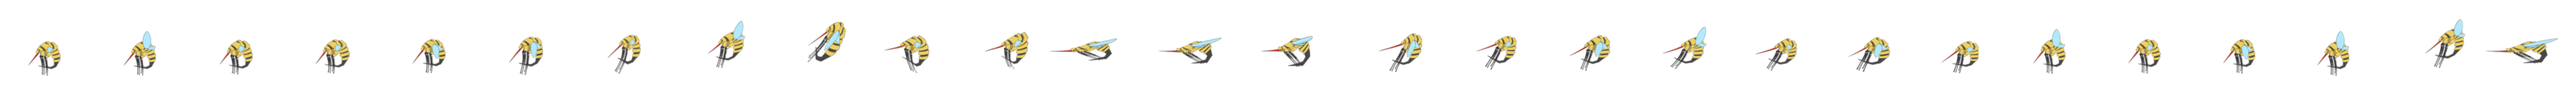
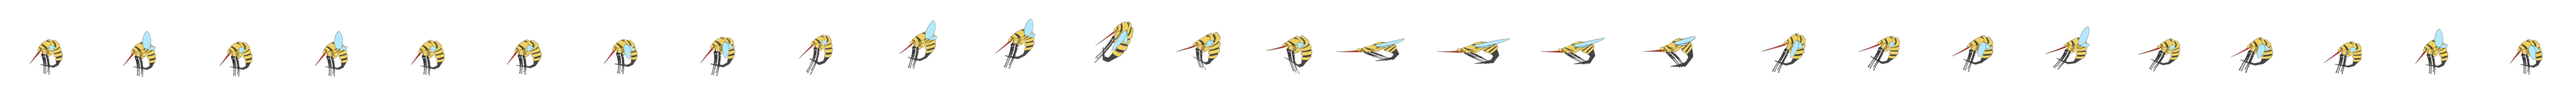
wasp AI & animations

Changed region(s): [[0.0, 0.25, 1.0, 0.75]]

diff --git a/src/Gameplay/Entities/Enemies/Wasp.cpp b/src/Gameplay/Entities/Enemies/Wasp.cpp
@@ -50,7 +50,7 @@ bool Wasp::Start() {
 
 	position.x = parameters.attribute("x").as_int();
 	position.y = parameters.attribute("y").as_int();
-	texturePath = parameters.attribute("texturepath").as_string(); 
+	texturePath = parameters.attribute("texturepath").as_string();
 	newPosition = spawnPosition = position;
 
 	timer = Timer();
@@ -89,41 +89,44 @@ bool Wasp::Start() {
 	waspDeath = *app->animationManager->GetAnimByName("Avispa_Muerte");
 	waspDeath.speed = 2.0f;
 
-
 	return true;
 }
 
 bool Wasp::Update(float dt)
 {
-	if (movementFSM->GetCurrentState().name != "die") {
-		movementFSM->Update(dt);
-		pbody->body->SetTransform(pbody->body->GetPosition(), 0);
+	movementFSM->Update(dt);
+	pbody->body->SetTransform(pbody->body->GetPosition(), 0);
 
-		// Calculate the angle between the enemy and the player
-		float angleToPlayer = atan2(player->position.y - position.y, player->position.x - position.x);
+	//Update player position in pixels
+	position.x = METERS_TO_PIXELS(pbody->body->GetTransform().p.x) - 16;
+	position.y = METERS_TO_PIXELS(pbody->body->GetTransform().p.y) - 16;
 
-		// Set the rotation of the enemy's body to face the player
-		pbody->body->SetTransform(pbody->body->GetPosition(), angleToPlayer);
+	//app->render->DrawRectangle({ position.x - 1, position.y + 8, 36, 18 }, 255, 0, 0);
 
-		//Update player position in pixels
-		position.x = METERS_TO_PIXELS(pbody->body->GetTransform().p.x) - 16;
-		position.y = METERS_TO_PIXELS(pbody->body->GetTransform().p.y) - 16;
+	app->render->DrawLine(METERS_TO_PIXELS(pbody->body->GetPosition().x), METERS_TO_PIXELS(pbody->body->GetPosition().y), METERS_TO_PIXELS(pbody->body->GetPosition().x) + pbody->body->GetLinearVelocity().x * 10, METERS_TO_PIXELS(pbody->body->GetPosition().y) + +pbody->body->GetLinearVelocity().y * 10, 255, 255, 0);
 
-		//app->render->DrawRectangle({ position.x - 1, position.y + 8, 36, 18 }, 255, 0, 0);
-
-		app->render->DrawLine(METERS_TO_PIXELS(pbody->body->GetPosition().x), METERS_TO_PIXELS(pbody->body->GetPosition().y), METERS_TO_PIXELS(pbody->body->GetPosition().x) + pbody->body->GetLinearVelocity().x * 10, METERS_TO_PIXELS(pbody->body->GetPosition().y) + +pbody->body->GetLinearVelocity().y * 10, 255, 255, 0);
-
-		if (debug) {
-			if (app->input->GetKey(SDL_SCANCODE_F4) == KEY_DOWN) {
-				freeCam = !freeCam;
-			}
+	if (debug) {
+		if (app->input->GetKey(SDL_SCANCODE_F4) == KEY_DOWN) {
+			freeCam = !freeCam;
 		}
-
-		/* 	app->render->DrawTexture(currentAnimation->texture, position.x - 9, position.y - 9, &currentAnimation->GetCurrentFrame(), 1.0f, pbody->body->GetAngle()*RADTODEG, flip);
-
-			currentAnimation->Update(dt); */
-
 	}
+
+	/* 	app->render->DrawTexture(currentAnimation->texture, position.x - 9, position.y - 9, &currentAnimation->GetCurrentFrame(), 1.0f, pbody->body->GetAngle()*RADTODEG, flip);
+
+		currentAnimation->Update(dt); */
+
+	// Calculate the angle between the enemy and the player
+	
+	float angleToPlayer = atan2(player->position.y - position.y, player->position.x - position.x);
+
+	// Determine if the player is to the left or right of the enemy
+	if (player->position.x < position.x) {
+		flip = SDL_FLIP_NONE;
+	}
+	else {
+		flip = SDL_FLIP_HORIZONTAL;
+	}
+
 	return true;
 }
 
@@ -210,7 +213,6 @@ void Wasp::OnCollision(PhysBody* physA, PhysBody* physB) {
 			{
 				// AUDIO DONE boss death
 				movementFSM->ChangeState("die");
-				app->physics->DestroyBody(pbody);
 			}
 			//else {
 			//	// AUDIO DONE boss hit
@@ -229,33 +231,53 @@ void Wasp::EndCollision(PhysBody* physA, PhysBody* physB) {
 
 }
 
+void Wasp::attackMovement() {
+	// Calculate the direction vector from the enemy to the player
+	float dirX = player->position.x - position.x;
+	float dirY = player->position.y - position.y;
+
+	// Normalize the direction vector
+	float length = sqrt(dirX * dirX + dirY * dirY);
+	if (length != 0) {
+		dirX /= length;
+		dirY /= length;
+	}
+
+	// Define the attack force or speed
+	float attackForce = 10.0f; // Adjust this value as needed
+
+	// Apply the impulse/force towards the player
+	b2Vec2 force(dirX * attackForce, dirY * attackForce);
+	pbody->body->ApplyLinearImpulse(force, pbody->body->GetWorldCenter(), true);
+}
+
 void Wasp::pathfindingMovement(float dt) {
 
 	iPoint origin = app->map->WorldToMap(newPosition.x, newPosition.y); //a�adir el tile size / 2 hace que el owl se acerque mas 
 
-	if (timer.ReadMSec() >= 3000) {
+	if (timer.ReadMSec() > 250) {
 		iPoint destination = app->map->WorldToMap(player->position.x, player->position.y);  //a�adir el tile size / 2 hace que el owl se acerque mas
-		pathfinding->CreatePath(origin, destination); 
+		pathfinding->CreatePath(origin, destination);
 		timer.Start();
 		currentPathPos = 0;
 	}
 
 	const DynArray<iPoint>* path = pathfinding->GetLastPath();
 
-	if (movementDelay.ReadMSec() > 3000) {
+	if (movementDelay.ReadMSec() > 100) {
 		if (currentPathPos < path->Count())
 		{
 			newPosition = app->map->MapToWorld(path->At(currentPathPos)->x, path->At(currentPathPos)->y);
 			currentPathPos++;
 			//LOG("%d", currentPathPos);
-			//movementDelay.Start();
+			movementDelay.Start();
 		}
 	}
 
-	pbody->body->SetTransform( 
+	pbody->body->SetTransform(
 		{
-			std::lerp(pbody->body->GetPosition().x, PIXEL_TO_METERS(newPosition.x), dt * moveSpeed / 1000), 
-			std::lerp(pbody->body->GetPosition().y, PIXEL_TO_METERS(newPosition.y), dt * moveSpeed / 1000) 
+			std::lerp(pbody->body->GetPosition().x, PIXEL_TO_METERS(newPosition.x), dt * moveSpeed / 1000),
+			std::lerp(pbody->body->GetPosition().y, PIXEL_TO_METERS(newPosition.y), dt * moveSpeed / 1000)
 
 		},
 

diff --git a/src/Gameplay/Entities/Enemies/MiniSpider.cpp b/src/Gameplay/Entities/Enemies/MiniSpider.cpp
@@ -88,7 +88,7 @@ bool MiniSpider::Start() {
 	spiderDamage.speed = 2.0f;
 
 	spiderDeath = *app->animationManager->GetAnimByName("Mini_Spider_Muerte");
-	spiderDeath.speed = 2.0f;
+	spiderDeath.speed = 1.0f;
 
 	return true;
 }
@@ -96,43 +96,38 @@ bool MiniSpider::Start() {
 bool MiniSpider::Update(float dt)
 {
 
-	if (movementFSM->GetCurrentState().name != "die") {
-		movementFSM->Update(dt);
-		pbody->body->SetTransform(pbody->body->GetPosition(), 0);
+	movementFSM->Update(dt);
+	pbody->body->SetTransform(pbody->body->GetPosition(), 0);
 
-		app->render->DrawLine(METERS_TO_PIXELS(pbody->body->GetPosition().x), METERS_TO_PIXELS(pbody->body->GetPosition().y), METERS_TO_PIXELS(pbody->body->GetPosition().x) + pbody->body->GetLinearVelocity().x * 10, METERS_TO_PIXELS(pbody->body->GetPosition().y) + +pbody->body->GetLinearVelocity().y * 10, 255, 255, 0);
+	app->render->DrawLine(METERS_TO_PIXELS(pbody->body->GetPosition().x), METERS_TO_PIXELS(pbody->body->GetPosition().y), METERS_TO_PIXELS(pbody->body->GetPosition().x) + pbody->body->GetLinearVelocity().x * 10, METERS_TO_PIXELS(pbody->body->GetPosition().y) + +pbody->body->GetLinearVelocity().y * 10, 255, 255, 0);
 
-		//Update player position in pixels
-		position.x = METERS_TO_PIXELS(pbody->body->GetTransform().p.x) - 16;
-		position.y = METERS_TO_PIXELS(pbody->body->GetTransform().p.y) - 16;
+	//Update player position in pixels
+	position.x = METERS_TO_PIXELS(pbody->body->GetTransform().p.x) - 16;
+	position.y = METERS_TO_PIXELS(pbody->body->GetTransform().p.y) - 16;
 
-		if (debug) {
-			if (app->input->GetKey(SDL_SCANCODE_F4) == KEY_DOWN) {
-				freeCam = !freeCam;
-			}
+	if (debug) {
+		if (app->input->GetKey(SDL_SCANCODE_F4) == KEY_DOWN) {
+			freeCam = !freeCam;
 		}
-
-		//app->render->DrawRectangle({ position.x - 1, position.y - 2, 36, 36 }, 0, 50, 255);
-
-		app->render->DrawCircle(position.x, position.y + 5, 1, 0, 0, 0, 0);
-		/* 	app->render->DrawTexture(currentAnimation->texture, position.x - 9, position.y - 9, &currentAnimation->GetCurrentFrame(), 1.0f, pbody->body->GetAngle()*RADTODEG, flip);
-
-			currentAnimation->Update(dt); */
-
-			// Calculate the angle between the enemy and the player
-		float angleToPlayer = atan2(player->position.y - position.y, player->position.x - position.x);
-
-		// Determine if the player is to the left or right of the enemy
-		if (player->position.x < position.x) {
-			flip = SDL_FLIP_HORIZONTAL;
-		}
-		else {
-			flip = SDL_FLIP_NONE;
-		}
-
 	}
 
-	
+	//app->render->DrawRectangle({ position.x - 1, position.y - 2, 36, 36 }, 0, 50, 255);
+
+	app->render->DrawCircle(position.x, position.y + 5, 1, 0, 0, 0, 0);
+	/* 	app->render->DrawTexture(currentAnimation->texture, position.x - 9, position.y - 9, &currentAnimation->GetCurrentFrame(), 1.0f, pbody->body->GetAngle()*RADTODEG, flip);
+
+		currentAnimation->Update(dt); */
+
+		// Calculate the angle between the enemy and the player
+	float angleToPlayer = atan2(player->position.y - position.y, player->position.x - position.x);
+
+	// Determine if the player is to the left or right of the enemy
+	if (player->position.x < position.x) {
+		flip = SDL_FLIP_HORIZONTAL;
+	}
+	else {
+		flip = SDL_FLIP_NONE;
+	}
 
 	return true;
 }
@@ -220,7 +215,6 @@ void MiniSpider::OnCollision(PhysBody* physA, PhysBody* physB) {
 			{
 				// AUDIO DONE boss death
 				movementFSM->ChangeState("die");
-				app->physics->DestroyBody(pbody);
 			}
 				//else {
 				//	// AUDIO DONE boss hit

diff --git a/include/Gameplay/States/Wasp/WaspIdleState.hpp b/include/Gameplay/States/Wasp/WaspIdleState.hpp
@@ -26,12 +26,20 @@ public:
         LOG("WaspIdleState Update()");
 
         //Animation
-        app->render->DrawTexture(wasp->waspIdle.texture, wasp->position.x, wasp->position.y, &wasp->waspIdle.GetCurrentFrame());
+        app->render->DrawTexture(wasp->waspIdle.texture, wasp->position.x-120, wasp->position.y-130, &wasp->waspIdle.GetCurrentFrame(), 1.0f, wasp->pbody->body->GetAngle() * RADTODEG, wasp->flip);
         wasp->waspIdle.Update(dt);
 
         player = app->entityManager->GetPlayerEntity();
 
-        if (PIXEL_TO_METERS(player->position.DistanceTo(wasp->position)) < 10.0f)
+        if (PIXEL_TO_METERS(player->position.DistanceTo(wasp->position)) < 2.0f) {
+            if (wasp->attackTimer.ReadSec() >= 1)
+            {
+                wasp->waspAttack.Reset();
+                StateMachineReference->ChangeState("attack");
+            }
+        }
+
+        if (PIXEL_TO_METERS(player->position.DistanceTo(wasp->position)) < 7.0f && PIXEL_TO_METERS(player->position.DistanceTo(wasp->position)) > 2.0f)
         {
             StateMachineReference->ChangeState("move");
             // AUDIO DONE dog idle

diff --git a/include/Gameplay/States/Wasp/WaspAttackState.hpp b/include/Gameplay/States/Wasp/WaspAttackState.hpp
@@ -34,11 +34,18 @@ public:
         //app->render->DrawRectangle({ wasp->position.x - 5, wasp->position.y - 2, 36, 36 }, 0, 50, 255);
 
         //Animation
-        app->render->DrawTexture(wasp->waspAttack.texture, wasp->position.x, wasp->position.y, &wasp->waspAttack.GetCurrentFrame());
+        app->render->DrawTexture(wasp->waspAttack.texture, wasp->position.x-120, wasp->position.y-130, &wasp->waspAttack.GetCurrentFrame(), 1.0f, wasp->pbody->body->GetAngle() * RADTODEG, wasp->flip);
         wasp->waspAttack.Update(dt);
 
-        wasp->attackTimer.Start(); 
-        StateMachineReference->ChangeState("move"); 
+        if (wasp->waspAttack.GetCurrentFrameCount() >= 14 && wasp->waspAttack.GetCurrentFrameCount() <= 17) {
+            wasp->attackMovement();
+        }
+
+        if (wasp->waspAttack.GetCurrentFrameCount() >= 24) {
+            wasp->attackTimer.Start();
+            StateMachineReference->ChangeState("idle");
+        }
+
     }
     inline void Exit() override
     {

diff --git a/include/Gameplay/States/MiniSpider/MiniSpiderDeadState.hpp b/include/Gameplay/States/MiniSpider/MiniSpiderDeadState.hpp
@@ -23,14 +23,13 @@ public:
         LOG("MiniSpiderDeadState Update()");
 
         //Animation
-        app->render->DrawTexture(minispider->spiderDeath.texture, minispider->position.x - 100, minispider->position.y - 150, &minispider->spiderDeath.GetCurrentFrame());
+        app->render->DrawTexture(minispider->spiderDeath.texture, minispider->position.x - 100, minispider->position.y - 150, &minispider->spiderDeath.GetCurrentFrame(), 1.0f, minispider->pbody->body->GetAngle() * RADTODEG, minispider->flip);
         minispider->spiderDeath.Update(dt);
 
-        //if (minispider->reviveTimer.ReadSec() >= 5)
-        //{
-        //    StateMachineReference->ChangeState("idle");
-        //    //enemyboss->health = 5;
-        //}
+        if (minispider->spiderDeath.GetCurrentFrameCount() >= 12) {
+            app->physics->DestroyBody(minispider->pbody);
+            minispider->Disable();
+        }
     }
     inline void Exit() override
     {

diff --git a/include/Gameplay/States/Wasp/WaspMoveState.hpp b/include/Gameplay/States/Wasp/WaspMoveState.hpp
@@ -28,13 +28,15 @@ public:
         player = app->entityManager->GetPlayerEntity();
 
         //Animation
-        app->render->DrawTexture(wasp->waspMove.texture, wasp->position.x - 120, wasp->position.y - 130, &wasp->waspMove.GetCurrentFrame());
+        app->render->DrawTexture(wasp->waspMove.texture, wasp->position.x - 120, wasp->position.y - 130, &wasp->waspMove.GetCurrentFrame(), 1.0f, wasp->pbody->body->GetAngle() * RADTODEG, wasp->flip);
         wasp->waspMove.Update(dt);
-
+        
         wasp->pathfindingMovement(dt);
-        if (PIXEL_TO_METERS(player->position.DistanceTo(wasp->position)) < 100.0f) {
+
+        if (PIXEL_TO_METERS(player->position.DistanceTo(wasp->position)) < 7.0f) {
             if (wasp->attackTimer.ReadSec() >= 2)
             {
+                wasp->waspAttack.Reset();
                 StateMachineReference->ChangeState("attack");
             }
         }

diff --git a/include/Gameplay/States/Wasp/WaspDeadState.hpp b/include/Gameplay/States/Wasp/WaspDeadState.hpp
@@ -23,14 +23,14 @@ public:
         LOG("WaspDeadState Update()");
 
         //Animation
-        app->render->DrawTexture(wasp->waspDeath.texture, wasp->position.x, wasp->position.y, &wasp->waspDeath.GetCurrentFrame());
+        app->render->DrawTexture(wasp->waspDeath.texture, wasp->position.x-120, wasp->position.y-130, &wasp->waspDeath.GetCurrentFrame(), 1.0f, wasp->pbody->body->GetAngle() * RADTODEG, wasp->flip);
         wasp->waspDeath.Update(dt);
 
-        //if (Wasp->reviveTimer.ReadSec() >= 5)
-        //{
-        //    StateMachineReference->ChangeState("idle");
-        //    //Wasp->health = 5;
-        //}
+        if (wasp->waspDeath.GetCurrentFrameCount() >= 15) {
+            app->physics->DestroyBody(wasp->pbody);
+            wasp->Disable();
+        }
+
     }
     inline void Exit() override
     {

diff --git a/include/Gameplay/Entities/Enemies/Wasp.h b/include/Gameplay/Entities/Enemies/Wasp.h
@@ -43,6 +43,8 @@ public:
 
 	void EndCollision(PhysBody* physA, PhysBody* physB) override;
 
+	void attackMovement();
+
 	void pathfindingMovement(float dt);
 
 	void OnRaycastHit(b2Fixture* fixture, const b2Vec2& point,
@@ -91,6 +93,8 @@ public:
 	int currentPathPos;
 
 	PathFinding* pathfinding;
+
+	SDL_RendererFlip flip = SDL_FLIP_NONE;
 
 };
 
